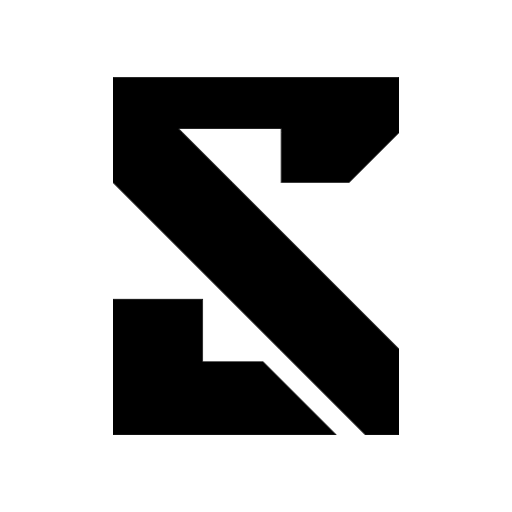
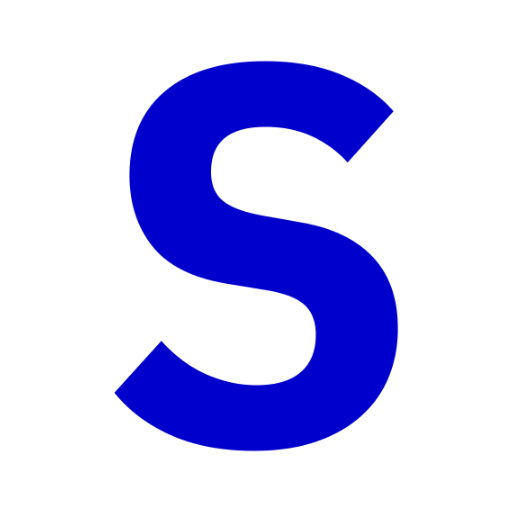
Public Sync

diff --git a/src/components/layout/Header.tsx b/src/components/layout/Header.tsx
@@ -40,12 +40,13 @@ const Header: React.FC = () => {
     <header className="relative bg-white border-b border-black">
       <div className="max-w-container mx-auto px-4 flex justify-between items-center py-3">
         {/* Logo */}
-        <Link to="/" aria-label="Svitlogics Homepage">
-          <img 
-            src="/svitlogics-logo-s-only.svg" 
-            alt="Svitlogics Logo" 
-            className="h-8 w-auto" // Встановлюємо висоту 32px
-          />
+        <Link to="/" className="flex items-baseline" aria-label="Svitlogics Homepage">
+          <div className="font-mono font-bold text-[36px] text-blue-accent leading-none">
+            SVITLOGICS
+          </div>
+          <span className="font-mono font-medium text-ui-label text-text-secondary ml-2 normal-case">
+            beta
+          </span>
         </Link>
 
         {/* Desktop Navigation & Controls */}

diff --git a/src/pages/ChangelogPage.tsx b/src/pages/ChangelogPage.tsx
@@ -12,13 +12,6 @@ interface ChangelogEntryData {
 // Фінальні дані чейнджлогу
 const changelogData: ChangelogEntryData[] = [
   {
-    version: "v0.1.1 (Beta) - Post-Hackathon Polish",
-    date: "July 27, 2025",
-    changes: [
-      '<strong>IMPROVED:</strong> Replaced the placeholder favicon and logo with the final Svitlogics branding for a consistent visual identity.'
-    ]
-  },
-  {
     version: "v0.1.0 (Beta) - Hackathon release candidate",
     date: "June 29, 2025",
     changes: [

diff --git a/src/components/layout/Footer.tsx b/src/components/layout/Footer.tsx
@@ -19,7 +19,7 @@ const Footer: React.FC = () => {
   const currentYear = new Date().getFullYear();
 
   const copyrightText = `© ${currentYear} SVITLOGICS BY EUGENE KOZLOVSKY. ALL RIGHTS RESERVED.`;
-  const versionText = "SVITLOGICS V0.1.1 (BETA)";
+  const versionText = "SVITLOGICS V0.1.0 (BETA)";
 
   return (
     <footer className="bg-white border-t border-black px-4 py-8">

diff --git a/src/pages/Home.tsx b/src/pages/Home.tsx
@@ -1,3 +1,5 @@
+// Test deploy from local setup - a small change to trigger CI/CD
+
 import React, { useState, useCallback, useMemo } from 'react';
 import { Link } from 'react-router-dom';
 import { Helmet } from 'react-helmet-async';
